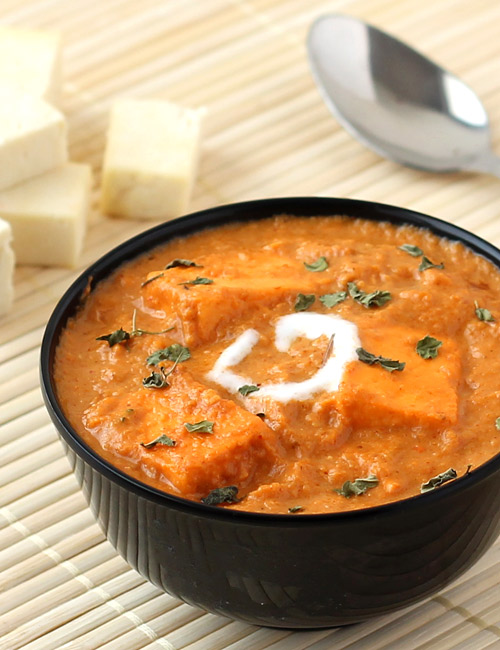
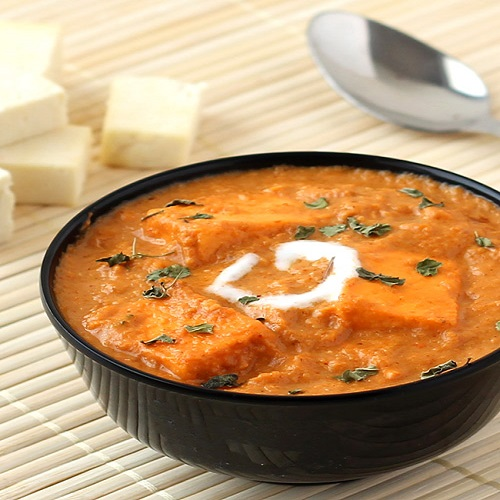
css

diff --git a/css/2_recipe_detail.html b/css/2_recipe_detail.html
@@ -11,13 +11,13 @@
 <body>
     <article>
         <header>
-            <h1>Shahi Paneer</h1>
+            <h1 class="heading">Shahi Paneer</h1>
         </header>
         <span>
             <aside>
-                <h2>Paneer Recipe Ingredients</h2>
+                <h2 class="sub-heading">Paneer Recipe Ingredients</h2>
     
-                <ul>
+                <ul class="ingredients">
                     <li>250 gms Paneer (cottage cheese), cubed into 1-inch pieces</li>
                     <li>1 medium Tomato, crushed</li>
                     <li>2 medium Onions</li>
@@ -44,19 +44,22 @@
                 </ul>
             </aside>
             <div>
-                <p>
-                    It is a delicious North Indian curry made with paneer (cottage cheese) and tomato based spicy gravy
-                    laced with spices. This is a traditional recipe that has been followed from generations and has been
-                    mainstay preparation in Indian cuisine since the time of Moguls. This shahi paneer recipe uses cashew
-                    nut based tomato gravy to bring in the rich texture and flavor.
-                </p>
-                <figure>
-                    <img src="images/shahi-paneer-recipe.jpg" alt="">
-                    <figcaption>Shahi panner recipe</figcaption>
-                </figure>
+                <div class="introduction">
+                  
+                    <figure class="recipe-image-box">
+                        <img class="recipe-image" src="images/shahi-paneer-recipe.jpg" alt="">
+                        <figcaption>Shahi panner recipe</figcaption>
+                    </figure>
+                    <p class="introduction-text">
+                        It is a delicious North Indian curry made with paneer (cottage cheese) and tomato based spicy gravy
+                        laced with spices. This is a traditional recipe that has been followed from generations and has been
+                        mainstay preparation in Indian cuisine since the time of Moguls. This shahi paneer recipe uses cashew
+                        nut based tomato gravy to bring in the rich texture and flavor.
+                    </p>
+                </div>
                 <table>
                     <tr>
-                        <td><img src="https://picsum.photos/100" alt="Random Image"></td>
+                        <td><img  src="https://picsum.photos/100" alt="Random Image"></td>
                         <td>Lorem ipsum dolor sit amet, consectetur adipiscing elit. Vestibulum feugiat urna vel odio
                             fermentum...</td>
                     </tr>
@@ -121,6 +124,34 @@
         </span>
 
     </article>
+
+    <h3 class="sub-heading">You may also like this</h3>
+    <section class="releted_recipes">
+        <article>
+            <figure>
+                <img src="https://picsum.photos/150?random=1" alt="">
+                <figcaption><h3>Paneer Bhurji</h3></figcaption>
+            </figure>
+        </article>
+        <article>
+            <figure>
+                <img src="https://picsum.photos/150?random=2" alt="">
+                <figcaption><h3>Paneer Butter Masala</h3></figcaption>
+            </figure>
+        </article>
+        <article>
+            <figure>
+                <img src="https://picsum.photos/150?random=3" alt="">
+                <figcaption><h3>Paneer Angara</h3></figcaption>
+            </figure>
+        </article>
+        <article>
+            <figure>
+                <img src="https://picsum.photos/150?random=4" alt="">
+                <figcaption><h3>Paneer Bhangara</h3></figcaption>
+            </figure>
+        </article>
+    </section>
 </body>
 
 </html>

diff --git a/css/style1.css b/css/style1.css
@@ -1,7 +1,16 @@
+@import url('https://fonts.googleapis.com/css2?family=Playfair+Display:ital,wght@0,400..900;1,400..900&family=Ubuntu:ital,wght@0,300;0,400;0,500;0,700;1,300;1,400;1,500;1,700&display=swap');
+
 /* external stylesheet */
 *
 {
     margin: 0px;
+    font-family: "Ubuntu", sans-serif;
+    letter-spacing: 1px;
+    font-size: 18px;
+}
+h1, h2, h3, h4, h5, h6 
+{
+    font-family: "Playfair Display", serif;
 }
 body {
     background-color: #fdebd0; /* Cream */
@@ -16,9 +25,73 @@ article>span>aside
     width:25%;
     background-color: #fef5e7; /* Cream */
     box-shadow: 5px 5px 5px gray;
-
+}
+/* class selector style */
+.sub-heading, .heading
+{
+    background-color: brown;
+    color:white;
+}
+.sub-heading
+{
+    padding: 10px;
+}
+.heading 
+{
+    font-size: 36px;
+    text-align: center;
+    text-transform: uppercase;
+    padding:20px;
+    border-bottom: 2px solid white;
+}
+.ingredients
+{
+    list-style-type: none;
+    list-style-position: outside;
+}
+.ingredients>li 
+{
+    margin-left: -40px;
+    line-height: 200%;
+    padding-left: 5px;
+    border-bottom: 2px solid brown;
 }
 article>span>div 
 {
     width:75%;
+}
+.recipe-image
+{
+    border-radius: 100%;
+    height: 250px;
+}
+.recipe-image-box
+{
+   text-align: center;
+}
+.introduction
+{
+    display: flex;
+}
+.introduction-text
+{
+    text-align: justify;
+    padding:10px;
+    line-height: 175%;
+    word-spacing: 5px;
+    text-indent: 25px;
+}
+.releted_recipes
+{
+    display:flex
+}
+.releted_recipes>article
+{
+    margin-top: 20px;
+    width: 25%;
+    text-align: center;
+}
+.releted_recipes>article>figure>img
+{
+    border-radius: 100%;
 }
